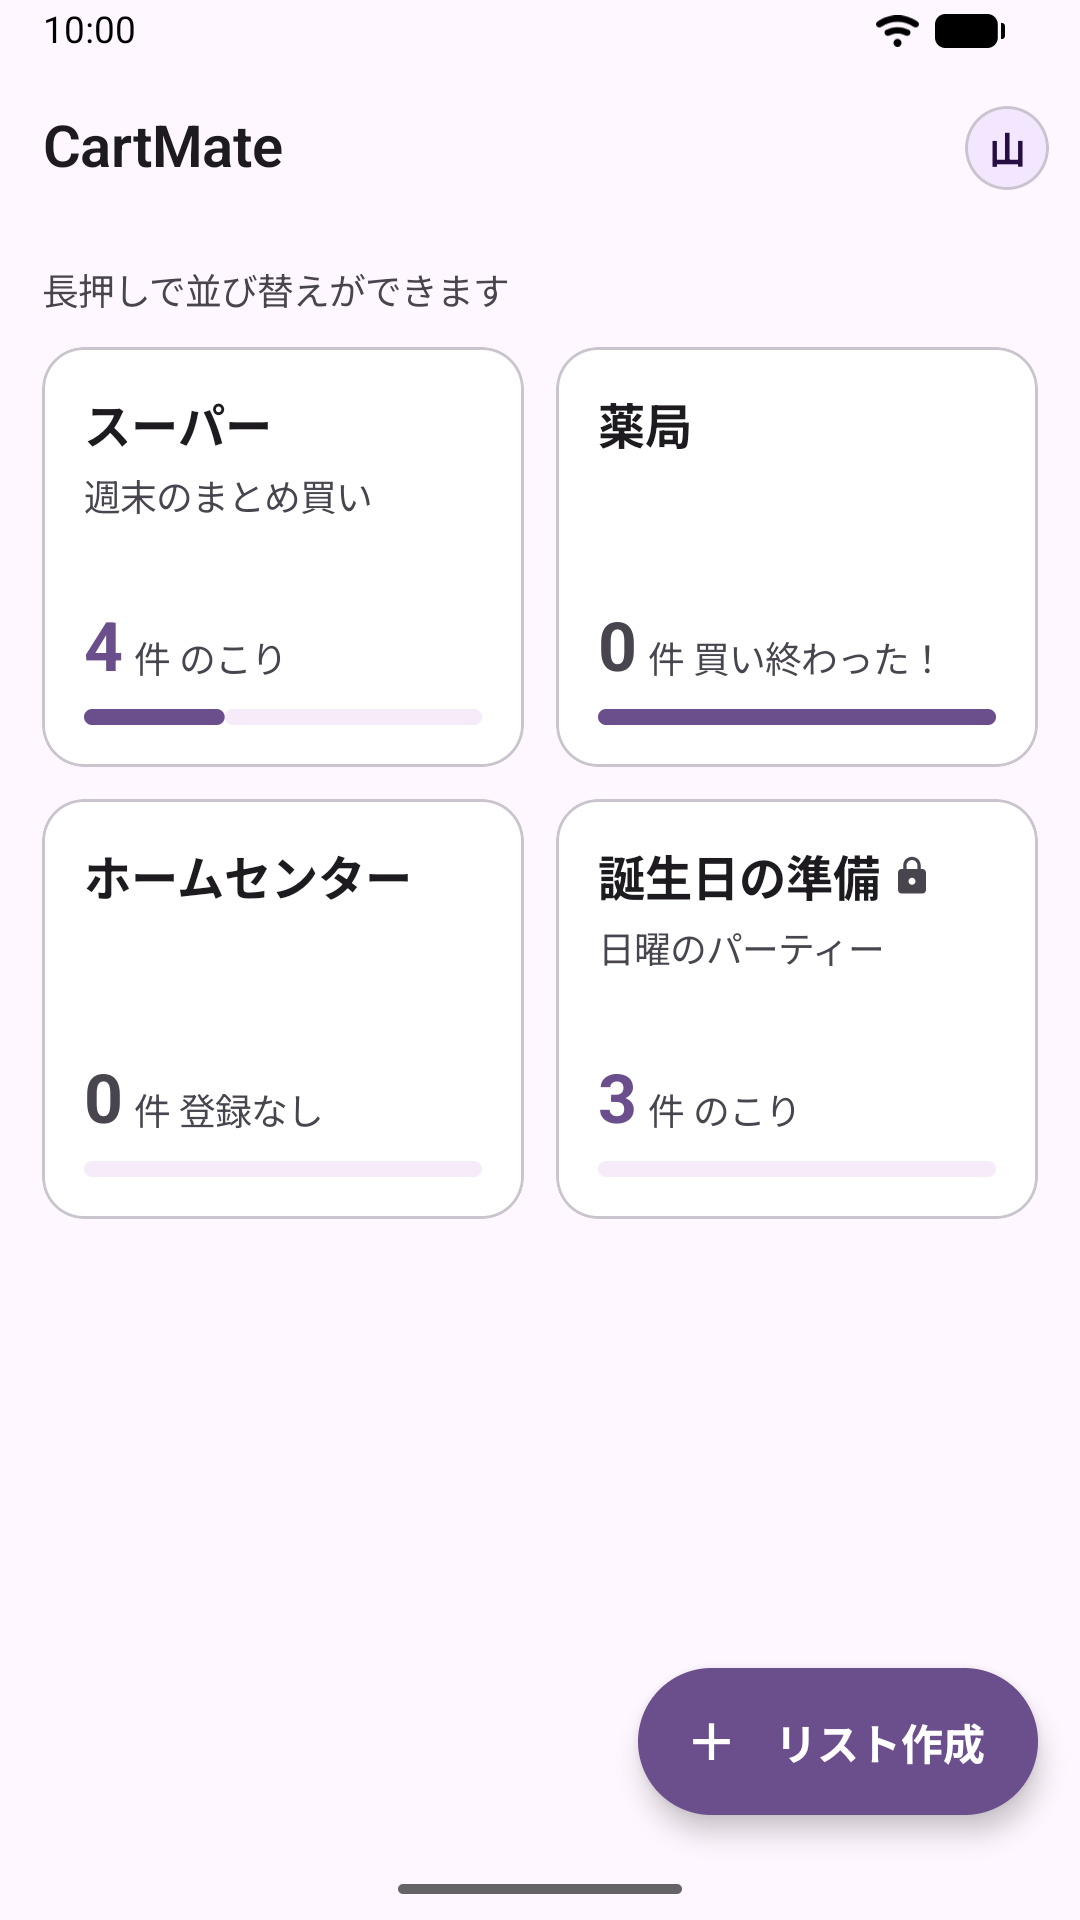
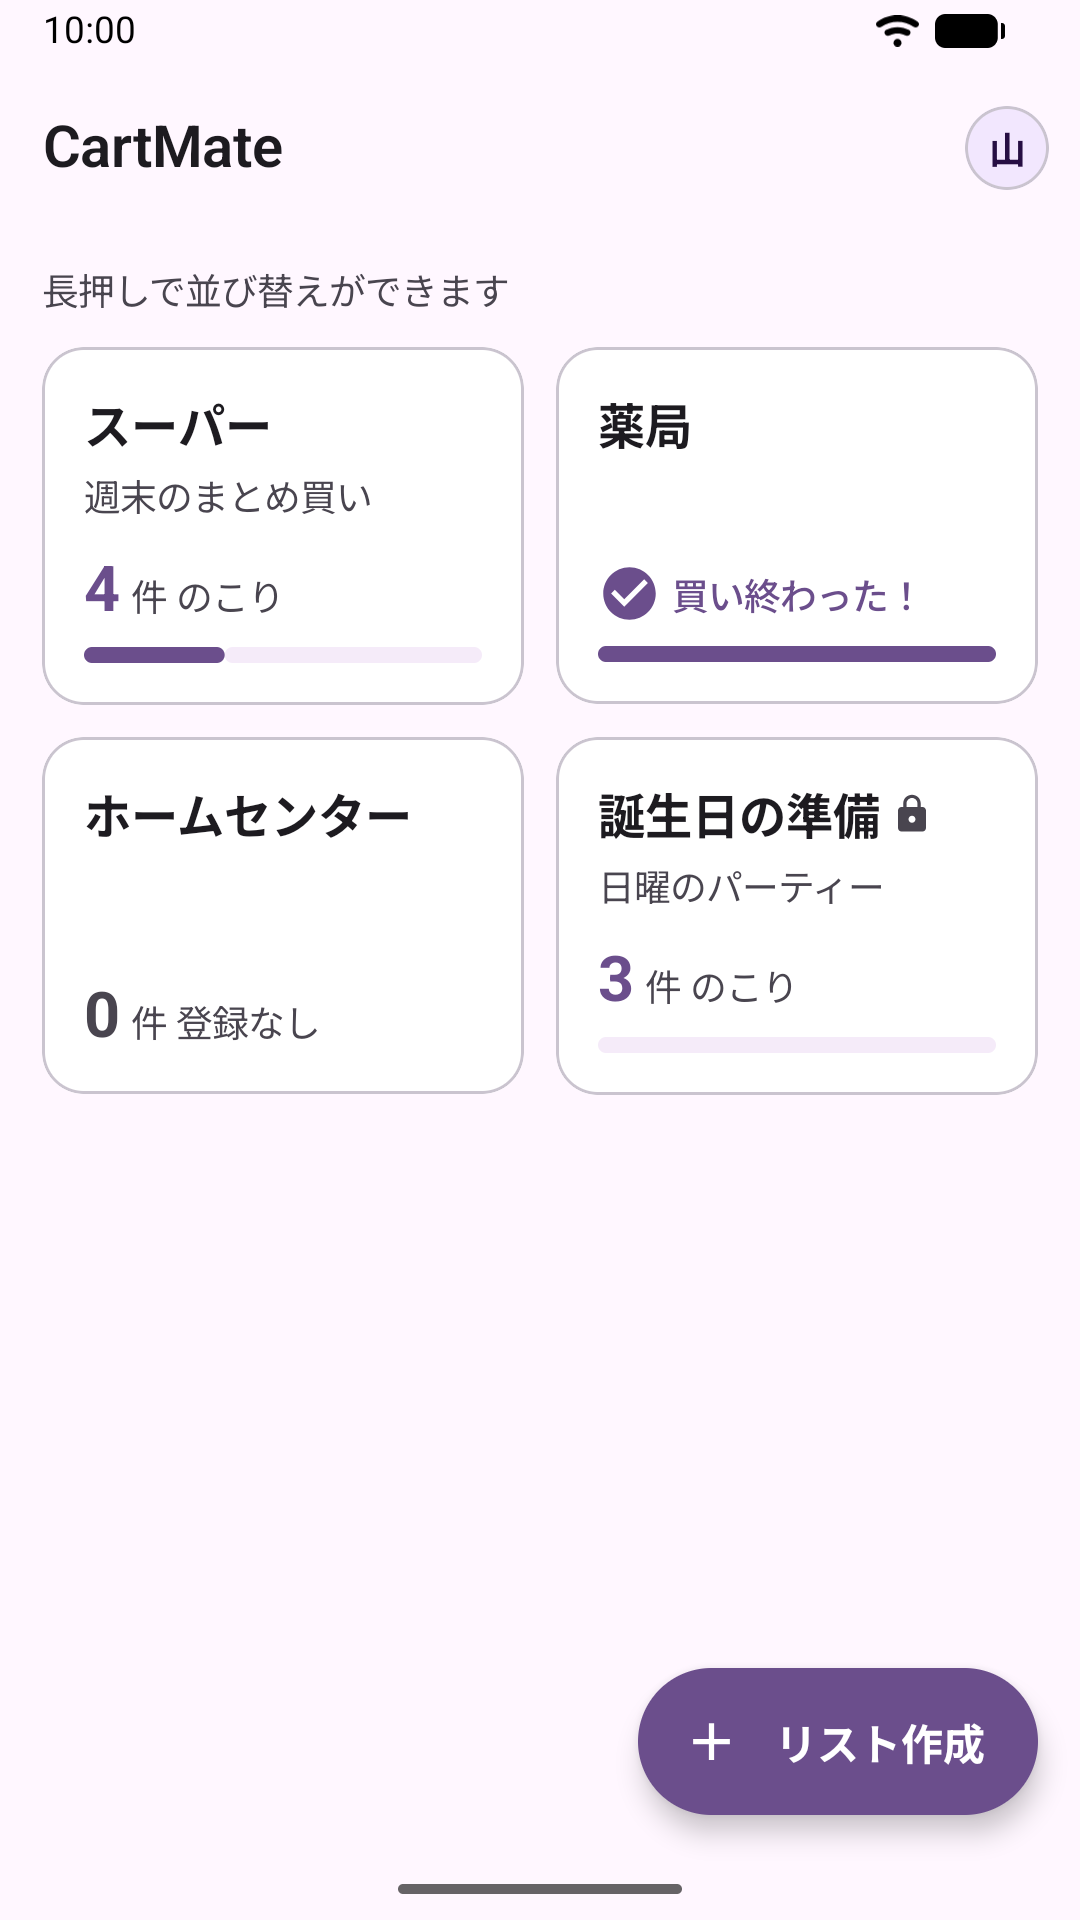
feat: Tighten list cards and suggestion buttons and clarify product wording
- List cards are shorter, and a finished list shows a check mark in the
  brand color while a list with nothing registered has no progress bar
  (UI001-4).
- Suggestion "+" buttons draw a 32dp circle inside the 48dp touch target,
  and suggestion rows are 56dp (UI001-3).
- The product screen explains where hidden products go and how to show
  them again (UI001-7).
- Purchase history labels the switch column "周期予測に使用" (UI001-8).
- The merge confirmation tells how purchase history and predictions are
  handled after merging and unmerging (UI001-9).
- Retake the screenshots.

diff --git a/app/src/main/java/com/cheesecomer/cartmate/ui/lists/ListCard.kt b/app/src/main/java/com/cheesecomer/cartmate/ui/lists/ListCard.kt
@@ -36,7 +36,9 @@ import com.cheesecomer.cartmate.ui.theme.CartMateSpacing
 
 /**
  * リスト一覧のカード（docs/design/ui.md「リスト一覧」）。リスト名、備考、件数、進捗バーを表示する。
- * プライベートのリストには鍵アイコンを表示する。家族のメンバーはどのリストでも同じなので、カードにはアバターを出さない
+ * プライベートのリストには鍵アイコンを表示する。家族のメンバーはどのリストでも同じなので、カードにはアバターを出さない。
+ * 買い終わったリストはチェックの印と primary の文字で、登録のないリストは進捗バーを出さずに示し、同じ0件でも見分けられるようにする
+ * （UI レビュー UI001-4）
  */
 @Composable
 fun ListCard(
@@ -57,7 +59,10 @@ fun ListCard(
             .clickable(onClickLabel = stringResource(R.string.lists_open), onClick = onClick)
             // TalkBack 用の操作（並び替え）。clickable と同じ要素に付けないと読み上げの対象にならない
             .semantics { customActions = actions }
-            .heightIn(min = 160.dp)
+            // 進捗バーを出さないカード（登録なし）でも、列の幅いっぱいに広げる
+            .fillMaxWidth()
+            // 備考のあるカードが収まる高さにそろえる。備考のないカードに大きな空白を作らない（UI001-4）
+            .heightIn(min = 136.dp)
             .padding(CartMateSpacing.large),
         verticalArrangement = Arrangement.SpaceBetween,
     ) {
@@ -90,38 +95,48 @@ fun ListCard(
                 )
             }
         }
-        Column(Modifier.padding(top = CartMateSpacing.large)) {
-            Row(verticalAlignment = Alignment.Bottom) {
-                Text(
-                    progress.openCount.toString(),
-                    fontSize = 26.sp,
-                    lineHeight = 28.sp,
-                    style = MaterialTheme.typography.titleLarge,
-                    color = if (progress.status == ListProgress.Status.REMAINING) colors.primary else colors.onSurfaceVariant,
-                )
-                Text(
-                    stringResource(
-                        when (progress.status) {
-                            ListProgress.Status.REMAINING -> R.string.lists_count_remaining
-                            ListProgress.Status.NOT_REGISTERED -> R.string.lists_count_not_registered
-                            ListProgress.Status.DONE -> R.string.lists_count_done
-                        },
-                    ),
-                    style = MaterialTheme.typography.bodyMedium,
-                    color = colors.onSurfaceVariant,
-                    modifier = Modifier.padding(start = CartMateSpacing.xSmall, bottom = 2.dp),
+        Column(Modifier.padding(top = CartMateSpacing.medium)) {
+            when (progress.status) {
+                ListProgress.Status.DONE -> Row(verticalAlignment = Alignment.CenterVertically) {
+                    Icon(painterResource(R.drawable.ic_check_circle), contentDescription = null, tint = colors.primary, modifier = Modifier.size(24.dp))
+                    Text(
+                        stringResource(R.string.lists_done),
+                        style = MaterialTheme.typography.titleSmall,
+                        color = colors.primary,
+                        modifier = Modifier.padding(start = CartMateSpacing.xSmall),
+                    )
+                }
+                else -> Row(verticalAlignment = Alignment.Bottom) {
+                    Text(
+                        progress.openCount.toString(),
+                        fontSize = 24.sp,
+                        lineHeight = 26.sp,
+                        style = MaterialTheme.typography.titleLarge,
+                        color = if (progress.status == ListProgress.Status.REMAINING) colors.primary else colors.onSurfaceVariant,
+                    )
+                    Text(
+                        stringResource(
+                            if (progress.status == ListProgress.Status.REMAINING) R.string.lists_count_remaining else R.string.lists_count_not_registered,
+                        ),
+                        style = MaterialTheme.typography.bodyMedium,
+                        color = colors.onSurfaceVariant,
+                        modifier = Modifier.padding(start = CartMateSpacing.xSmall, bottom = 2.dp),
+                    )
+                }
+            }
+            // 登録のないリストには、空の進捗バーを出さない
+            if (progress.status != ListProgress.Status.NOT_REGISTERED) {
+                Spacer(Modifier.height(CartMateSpacing.small))
+                LinearProgressIndicator(
+                    progress = { progress.fraction },
+                    modifier = Modifier.fillMaxWidth().height(6.dp),
+                    color = colors.primary,
+                    trackColor = colors.surfaceContainer,
+                    strokeCap = StrokeCap.Round,
+                    gapSize = 0.dp,
+                    drawStopIndicator = {},
                 )
             }
-            Spacer(Modifier.height(CartMateSpacing.small))
-            LinearProgressIndicator(
-                progress = { progress.fraction },
-                modifier = Modifier.fillMaxWidth().height(6.dp),
-                color = colors.primary,
-                trackColor = colors.surfaceContainer,
-                strokeCap = StrokeCap.Round,
-                gapSize = 0.dp,
-                drawStopIndicator = {},
-            )
         }
     }
 }

diff --git a/app/src/main/java/com/cheesecomer/cartmate/ui/products/PurchaseHistoryScreen.kt b/app/src/main/java/com/cheesecomer/cartmate/ui/products/PurchaseHistoryScreen.kt
@@ -82,18 +82,32 @@ fun PurchaseHistoryScreen(
         LazyColumn(Modifier.fillMaxSize(), verticalArrangement = Arrangement.spacedBy(CartMateSpacing.medium)) {
             item { InfoCard() }
             item {
-                // 件数のバッジは、見出しの文字と下をそろえる
+                // 件数のバッジは見出しのすぐ右に、見出しの文字と下をそろえる。右端には、スイッチの列の見出しを置く
+                // （スイッチが何を切り替えるのかを、一覧を見ただけで分かるように。UI レビュー UI001-8）
                 Row(
                     verticalAlignment = Alignment.Bottom,
                     modifier = Modifier.fillMaxWidth().padding(end = CartMateSpacing.large),
                 ) {
-                    SectionLabel(stringResource(R.string.purchase_history_list), Modifier.weight(1f))
-                    Surface(shape = CircleShape, color = MaterialTheme.colorScheme.surfaceContainer, modifier = Modifier.padding(bottom = CartMateSpacing.small)) {
+                    SectionLabel(stringResource(R.string.purchase_history_list))
+                    Surface(
+                        shape = CircleShape,
+                        color = MaterialTheme.colorScheme.surfaceContainer,
+                        modifier = Modifier.padding(bottom = CartMateSpacing.small),
+                    ) {
                         Text(
                             stringResource(R.string.purchase_history_count, state.rows.size),
                             style = MaterialTheme.typography.labelMedium,
                             color = MaterialTheme.colorScheme.onSurfaceVariant,
                             modifier = Modifier.padding(horizontal = CartMateSpacing.medium, vertical = CartMateSpacing.xSmall),
+                        )
+                    }
+                    Spacer(Modifier.weight(1f))
+                    if (state.rows.isNotEmpty()) {
+                        Text(
+                            stringResource(R.string.purchase_history_switch_label),
+                            style = MaterialTheme.typography.labelMedium,
+                            color = MaterialTheme.colorScheme.onSurfaceVariant,
+                            modifier = Modifier.padding(bottom = CartMateSpacing.small),
                         )
                     }
                 }

diff --git a/app/src/main/java/com/cheesecomer/cartmate/ui/products/ProductScreens.kt b/app/src/main/java/com/cheesecomer/cartmate/ui/products/ProductScreens.kt
@@ -530,7 +530,10 @@ private fun ActionRow(
     }
 }
 
-/** サジェストへの出し方（docs/requirements.md §4.3）。通常どおり表示・一時的に非表示・常に非表示から選ぶ */
+/**
+ * サジェストへの出し方（docs/requirements.md §4.3）。通常どおり表示・一時的に非表示・常に非表示から選ぶ。
+ * 非表示にした商品をどこで見つけて、どう戻すかを最後に添える（UI レビュー UI001-7）
+ */
 @Composable
 private fun ModeSelector(mode: ProductMerge.SuggestionMode, onSelect: (ProductMerge.SuggestionMode) -> Unit) {
     val options = listOf(
@@ -555,6 +558,13 @@ private fun ModeSelector(mode: ProductMerge.SuggestionMode, onSelect: (ProductMe
             }
             if (index < options.lastIndex) CardDivider()
         }
+        CardDivider()
+        Text(
+            stringResource(R.string.suggestion_mode_restore),
+            style = MaterialTheme.typography.bodySmall,
+            color = MaterialTheme.colorScheme.onSurfaceVariant,
+            modifier = Modifier.padding(horizontal = CartMateSpacing.large, vertical = CartMateSpacing.medium),
+        )
     }
 }
 
@@ -762,6 +772,8 @@ private fun MergeConfirmDialog(
                     added.filter { it.members.isNotEmpty() }.forEach {
                         Text(stringResource(R.string.merge_products_confirm_members, it.product.displayName, it.members.size))
                     }
+                    // まとめたあとの購入履歴と予測の扱いを、実行前に伝える（UI レビュー UI001-9）
+                    Text(stringResource(R.string.merge_products_confirm_history, target.product.displayName))
                     // まとめた商品は統合先の設定に従う。統合先が常に非表示なら、そのことを伝える
                     if (target.product.suggestionExcluded) {
                         Text(stringResource(R.string.merge_products_confirm_always_hidden, target.product.displayName))
@@ -769,6 +781,7 @@ private fun MergeConfirmDialog(
                 }
                 if (removed.isNotEmpty()) {
                     Text(stringResource(R.string.merge_products_confirm_remove, removed.joinToString("、") { it.displayName }))
+                    Text(stringResource(R.string.merge_products_confirm_remove_history))
                 }
             }
         },

diff --git a/app/src/main/java/com/cheesecomer/cartmate/ui/listdetail/AddItemBar.kt b/app/src/main/java/com/cheesecomer/cartmate/ui/listdetail/AddItemBar.kt
@@ -4,6 +4,7 @@ import androidx.compose.foundation.combinedClickable
 import androidx.compose.foundation.background
 import androidx.compose.foundation.border
 import androidx.compose.foundation.clickable
+import androidx.compose.foundation.layout.Box
 import androidx.compose.foundation.layout.Column
 import androidx.compose.foundation.layout.Row
 import androidx.compose.foundation.layout.Spacer
@@ -48,7 +49,6 @@ import androidx.compose.ui.text.style.TextOverflow
 import androidx.compose.ui.unit.dp
 import androidx.compose.foundation.lazy.LazyColumn
 import androidx.compose.foundation.lazy.itemsIndexed
-import androidx.compose.material3.FilledIconButton
 import androidx.compose.ui.semantics.contentDescription
 import androidx.compose.ui.semantics.semantics
 import java.time.format.DateTimeFormatter
@@ -237,7 +237,7 @@ private fun SuggestionRowView(row: SuggestionRow, onOpen: () -> Unit, onAdd: () 
         verticalAlignment = Alignment.CenterVertically,
         modifier = Modifier
             .fillMaxWidth()
-            .heightIn(min = 64.dp)
+            .heightIn(min = 56.dp)
             .padding(horizontal = CartMateSpacing.large)
             .testTag(AddItemTags.SUGGESTION),
     ) {
@@ -259,12 +259,14 @@ private fun SuggestionRowView(row: SuggestionRow, onOpen: () -> Unit, onAdd: () 
             }
         }
         val description = stringResource(R.string.add_item_add_suggestion, row.label)
-        FilledIconButton(
-            onClick = onAdd,
-            shape = CircleShape,
-            modifier = Modifier.size(48.dp).semantics { contentDescription = description },
-        ) {
-            Icon(painterResource(R.drawable.ic_add), contentDescription = null)
+        // 押せる範囲は 48dp のまま、見える丸は小さくして、候補の名前より目立たせない（UI レビュー UI001-3）
+        IconButton(onClick = onAdd, modifier = Modifier.size(48.dp).semantics { contentDescription = description }) {
+            Box(
+                contentAlignment = Alignment.Center,
+                modifier = Modifier.size(32.dp).background(colors.primary, CircleShape),
+            ) {
+                Icon(painterResource(R.drawable.ic_add), contentDescription = null, tint = colors.onPrimary, modifier = Modifier.size(20.dp))
+            }
         }
     }
 }

diff --git a/app/src/androidTest/java/com/cheesecomer/cartmate/ui/products/ProductDetailScreenTest.kt b/app/src/androidTest/java/com/cheesecomer/cartmate/ui/products/ProductDetailScreenTest.kt
@@ -87,8 +87,9 @@ class ProductDetailScreenTest {
         buy("ケーキ")
         buy("ケーキ")
         setContent("ケーキ")
+        // 画面の下のほうにあり、最初は画面の外にある。スクロールして押す
         composeRule.waitUntil(timeoutMillis = 5_000) {
-            runCatching { composeRule.onNodeWithText("自分の購入をすべて削除（2件）").assertIsDisplayed() }.isSuccess
+            runCatching { composeRule.onNodeWithText("自分の購入をすべて削除（2件）").assertExists() }.isSuccess
         }
 
         composeRule.onNodeWithText("自分の購入をすべて削除（2件）").performScrollTo().performClick()

diff --git a/app/src/androidTest/java/com/cheesecomer/cartmate/ui/lists/ListsScreenTest.kt b/app/src/androidTest/java/com/cheesecomer/cartmate/ui/lists/ListsScreenTest.kt
@@ -118,7 +118,7 @@ class ListsScreenTest {
 
         composeRule.onNodeWithText("件 のこり").assertIsDisplayed()
         composeRule.onNodeWithText("件 登録なし").assertIsDisplayed()
-        composeRule.onNodeWithText("件 買い終わった！").assertIsDisplayed()
+        composeRule.onNodeWithText("買い終わった！").assertIsDisplayed()
     }
 
     @OptIn(ExperimentalTestApi::class)

diff --git a/docs/requirements.md b/docs/requirements.md
@@ -38,8 +38,8 @@
   | 状態 | 件数の表示 | 進捗バー |
   |---|---|---|
   | 未購入の商品がある | 「N 件 のこり」（数字をブランドカラーで大きく） | 完了の割合 |
-  | 未購入が0件で、購入の記録もない（新しく作ったリストなど） | 「0 件 登録なし」 | 空 |
-  | 未購入が0件で、購入の記録がある（買い終わった） | 「0 件 買い終わった！」 | いっぱい |
+  | 未購入が0件で、購入の記録もない（新しく作ったリストなど） | 「0 件 登録なし」（数字は控えめな色） | 表示しない |
+  | 未購入が0件で、購入の記録がある（買い終わった） | チェックの印と「買い終わった！」（ブランドカラー。同じ0件の「登録なし」と見た目で区別する） | いっぱい |
 
   件数と進捗は、閲覧している本人に見える項目だけで数える。完了の割合は、のこりの件数と直近24時間に完了した件数（前回の買い物を片付けたリストでは、片付けたあとの完了だけ。§3.2）から求める。購入の記録は、予測と同じく直近365日分で判定する。
 - プライベートのリストには鍵アイコンを表示する。共有のリストには何も付けない（共有が標準のため）。家族のメンバーはどのリストでも同じなので、カードにメンバーのアバターは出さず、リスト名の表示を優先する（メンバーは家族画面で確認する）。
